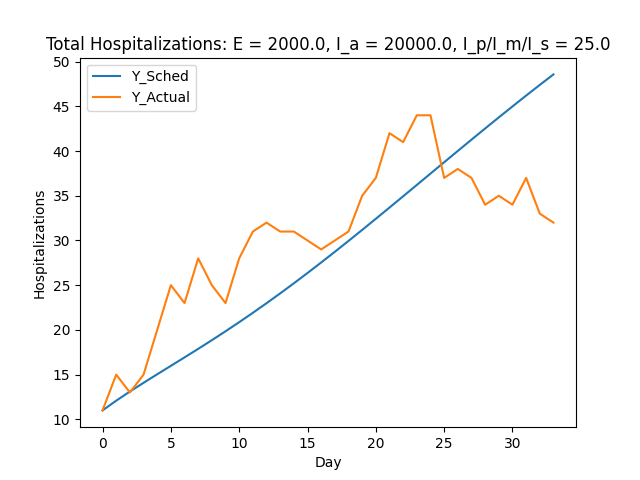
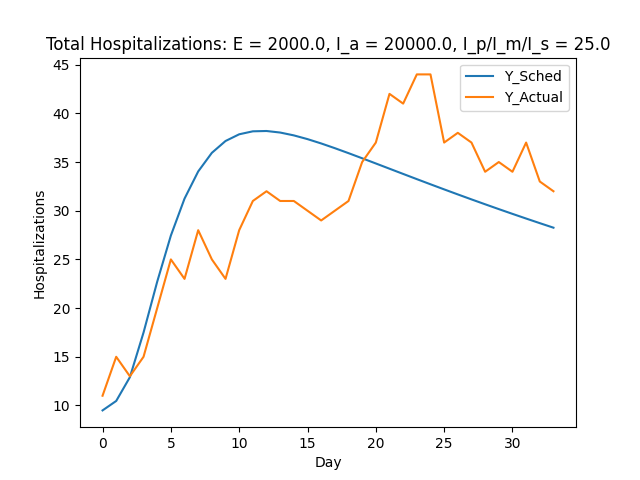
Finished ODE model, replacing with GradABM

diff --git a/new_nets.py b/new_nets.py
@@ -10,14 +10,27 @@ import math
 import sys
 import csv
 
+# from agent_torch.models import covid
+# from agent_torch.populations import astoria
+
+# from agent_torch.core.executor import Executor
+# from agent_torch.core.dataloader import LoadPopulation
+
+# import torch.nn as nn
+# import torch
+
+# sim = Executor(covid, pop_loader=LoadPopulation(astoria))
+# runner = sim.runner
+# runner.init()
+
 class CalibNN(nn.Module):
-    def __init__(self, input_size=1, hidden_size=10, output_size=6):
+    def __init__(self, input_size=1, hidden_size_1=64, hidden_size_2=32, output_size=13):
         super(CalibNN, self).__init__()
-        self.min_value = torch.tensor([0.0, 0.4, 0.3, 0.1, 1./20, 1.0 - 0.025])
-        self.max_value = torch.tensor([1.0, 0.8, 0.5, 0.3, 1./13, 1.0 - 0.075])
-        self.fc1 = nn.Linear(input_size, hidden_size)
-        self.fc2 = nn.Linear(hidden_size, hidden_size)
-        self.fc3 = nn.Linear(hidden_size, output_size)
+        self.min_value = torch.tensor([0.0, 0.4, 0.3, 0.1, 1./20, 1.0 - 0.075, 0.0, 0.0, 0.0, 0.0, 0.0, 0.0, 0.0])
+        self.max_value = torch.tensor([1.0, 0.8, 0.5, 0.3, 1./13, 1.0 - 0.025, 5000.0, 30000.0, 10.0, 10.0, 10.0, 10.0, 5.0])
+        self.fc1 = nn.Linear(input_size, hidden_size_1)
+        self.fc2 = nn.Linear(hidden_size_1, hidden_size_2)
+        self.fc3 = nn.Linear(hidden_size_2, output_size)
         self.sigmoid = nn.Sigmoid()
         self.ReLU = nn.ReLU()
 
@@ -36,7 +49,7 @@ def task_train_loss(Y_sched, Y_actual, params):
     over_loss = params["c_h"] * torch.clamp(Y_sched - Y_actual, min=0)
     under_loss_squared = params["q_b"] * torch.clamp((Y_actual - Y_sched)**2, min=0)
     over_loss_squared = params["q_h"] * torch.clamp((Y_sched - Y_actual)**2, min=0)
-    total_loss = (under_loss + over_loss + over_loss_squared + under_loss_squared).mean()
+    total_loss = (under_loss + over_loss + over_loss_squared + under_loss_squared).sum()
     return total_loss
     # return mse_loss.mean()
 
@@ -73,7 +86,7 @@ def rmse_test_loss(Y_sched, Y_actual):
 
 
 #"which" and "save_folder" parameters not used
-def eval_net(loss, variables, params, infected, y0, save_folder):
+def eval_net(loss, variables, params, save_folder):
     func = model_classes.ODEFunc()
 
     calib_nn = CalibNN()
@@ -87,6 +100,9 @@ def eval_net(loss, variables, params, infected, y0, save_folder):
     # nll_losses = []
     # task_train_losses = []
 
+    ic = [2000.0, 20000.0, 100.0]
+    y0 = torch.tensor([1938000.0 - ic[0] - ic[1] - 3*ic[2] - 11, ic[0], ic[1], ic[2], ic[2], ic[2], 6.0, 5.0, 0.0, 0.0], dtype=torch.float32)
+
     # func.set_beta(0.5)
     cal_params = calib_nn.parameters()
     opt = optim.Adam(cal_params, lr=1e-3)
@@ -98,6 +114,7 @@ def eval_net(loss, variables, params, infected, y0, save_folder):
         opt.zero_grad()
         parameters = calib_nn(x)
         func.set_params(parameters)
+        y0 = torch.tensor([1938000.0 - func.E - func.Ia - func.Ip - func.Im - func.Is - func.Hd - func.Hr, func.E, func.Ia, func.Ip, func.Im, func.Is, func.Hd, func.Hr, 0.0, 0.0], dtype=torch.float32)
         Y_sched_train = odeint(func, y0, torch.linspace(0, len(variables['Y_train']) + len(variables['Y_test']), len(variables['Y_train']) + len(variables['Y_test'])), method='rk4')
         Y_sched_train_total_hospitalizations = (Y_sched_train[:, [6]] + Y_sched_train[:, [7]])
 
@@ -151,6 +168,7 @@ def eval_net(loss, variables, params, infected, y0, save_folder):
         if epoch % 100 == 0 and loss == "task":
             print(f'Epoch {epoch}: Task Loss = {task_loss.item():.4f}')
             print(f'Beta: {parameters[0].item():.4f}, Ca: {parameters[1].item():.4f}, alpha: {parameters[2].item():.4f}, delta: {parameters[3].item():.4f}, rhoD: {parameters[4].item():.4f}, mu: {parameters[5].item():.4f}')
+            print(f'y0: {y0}')
             # print(f'Y_sched: {Y_sched}, Y_actual: {Y_actual}')
         elif epoch % 100 == 0 and loss == "rmse":
             print(f'Epoch {epoch}: RMSE Loss = {rmse_loss.item():.4f}')

diff --git a/model_classes.py b/model_classes.py
@@ -7,7 +7,17 @@ from functools import reduce
 from constants import *
 import pdb
 
+#Libraries for AgentTorch:
 import torch
+# # re-use existing models and population data easily
+# from agent_torch.models import covid
+# from agent_torch.populations import astoria
+
+# # use the executor to plug-n-play
+# from agent_torch.core.executor import Executor
+# from agent_torch.core.dataloader import LoadPopulation
+
+
 import torch.nn as nn
 from torch.autograd import Function
 from torch.nn.parameter import Parameter
@@ -237,15 +247,16 @@ class ODEFunc(nn.Module):
         self.delta = 0.1375
         self.mu = 0.928125
         #Inverses?
-        self.gamma = 1/3.5
-        self.lambdaa = 1/7
-        self.lambdap = 1/1.5
-        self.lambdam = 1/5.5
-        self.lambdas = 1/5.5
-        self.rhor = 1/15
+        self.gamma = 3.5
+        self.lambdaa = 7.0
+        self.lambdap = 2.0
+        self.lambdam = 5.0
+        self.lambdas = 5.0
+        self.rhor = 13.3
         self.rhod = 1/13.3
 
         # self.beta = nn.Parameter(torch.tensor(0.325,device=DEVICE))
+        self.beta = 0.325
         self.t = 0
 
     # def set_beta(self,beta):
@@ -258,7 +269,13 @@ class ODEFunc(nn.Module):
         self.delta = params[3]
         self.rhod = params[4]
         self.mu = params[5]
-
+        self.E = params[6]
+        self.Ia = params[7]
+        self.Ip = params[8]
+        self.Im = params[9]
+        self.Is = params[10]
+        self.Hr = params[11]
+        self.Hd = params[12]
 
     def forward(self,t,y):
         """defining y0 etc, y is a vector 10, one dimension is 10, another dimension is time

diff --git a/main.py b/main.py
@@ -2,6 +2,8 @@
 
 import argparse
 
+
+
 import os
 import pandas as pd
 import numpy as np
@@ -22,6 +24,7 @@ import torch.optim as optim
 import model_classes, new_nets
 
 from constants import *
+
 
 
 # import sys
@@ -83,9 +86,7 @@ def main():
         # for key in sorted(y0_dict.keys()):
         #     new_nets.eval_net(loss, variables, params, key, y0_dict[key], save_folder)
         
-        ic = [2000.0, 20000.0, 25.0]
-        y0 = torch.tensor([1938000.0 - ic[0] - ic[1] - 3*ic[2] - 11, ic[0], ic[1], ic[2], ic[2], ic[2], 6.0, 5.0, 0.0, 0.0], dtype=torch.float32)
-        new_nets.eval_net(loss, variables, params, -1, y0, save_folder)
+        new_nets.eval_net(loss, variables, params, save_folder)
 
 
 
